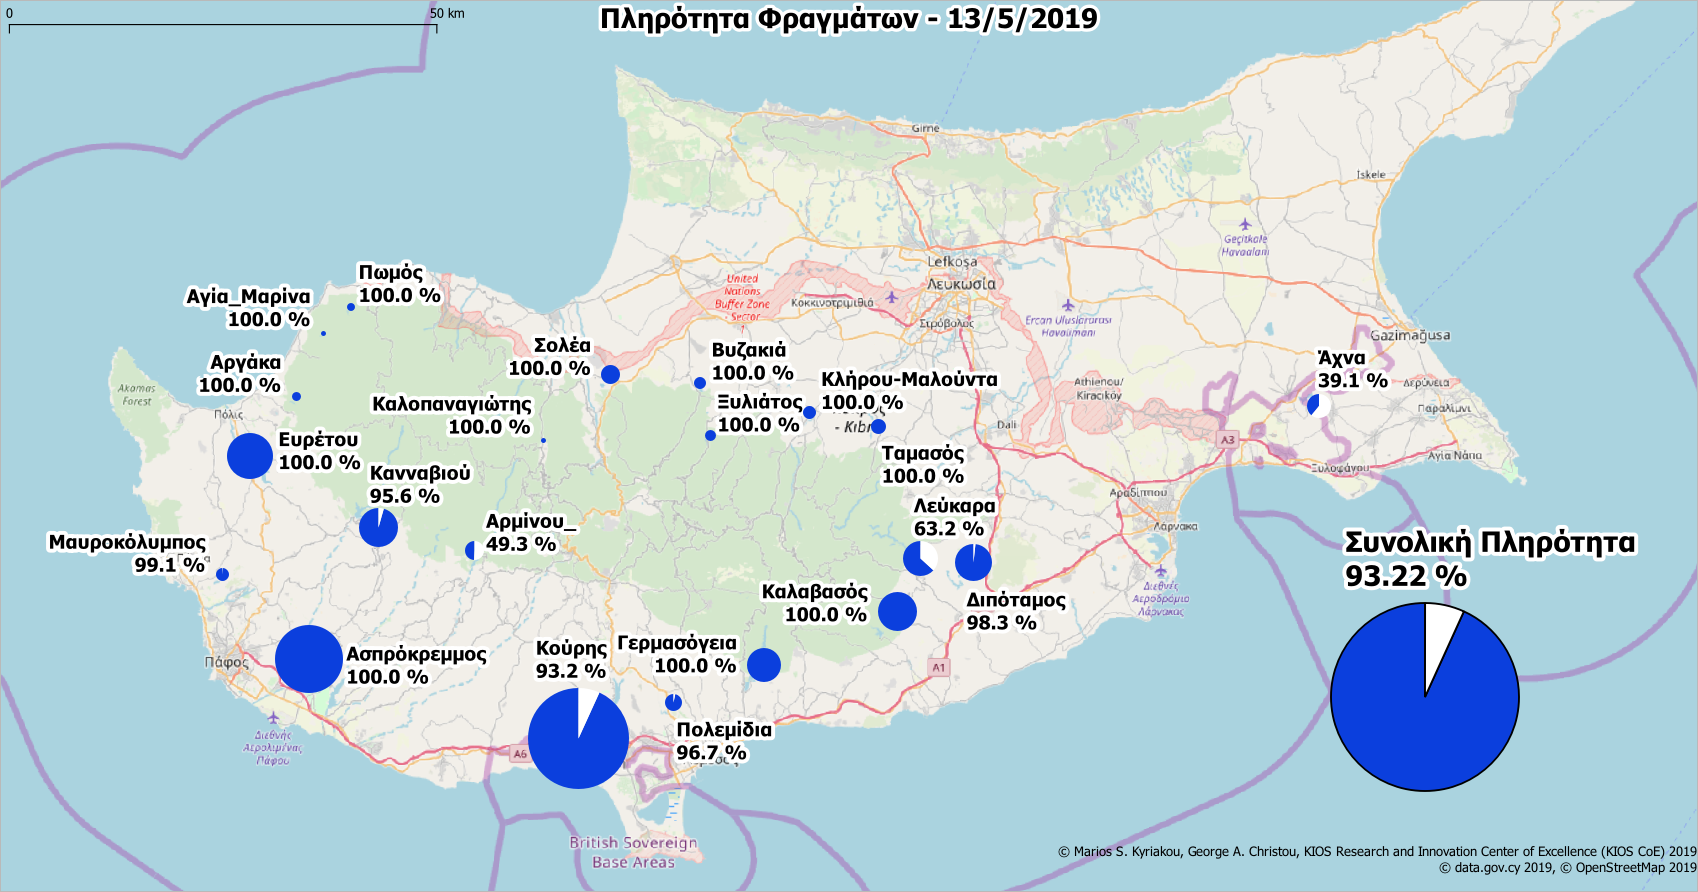
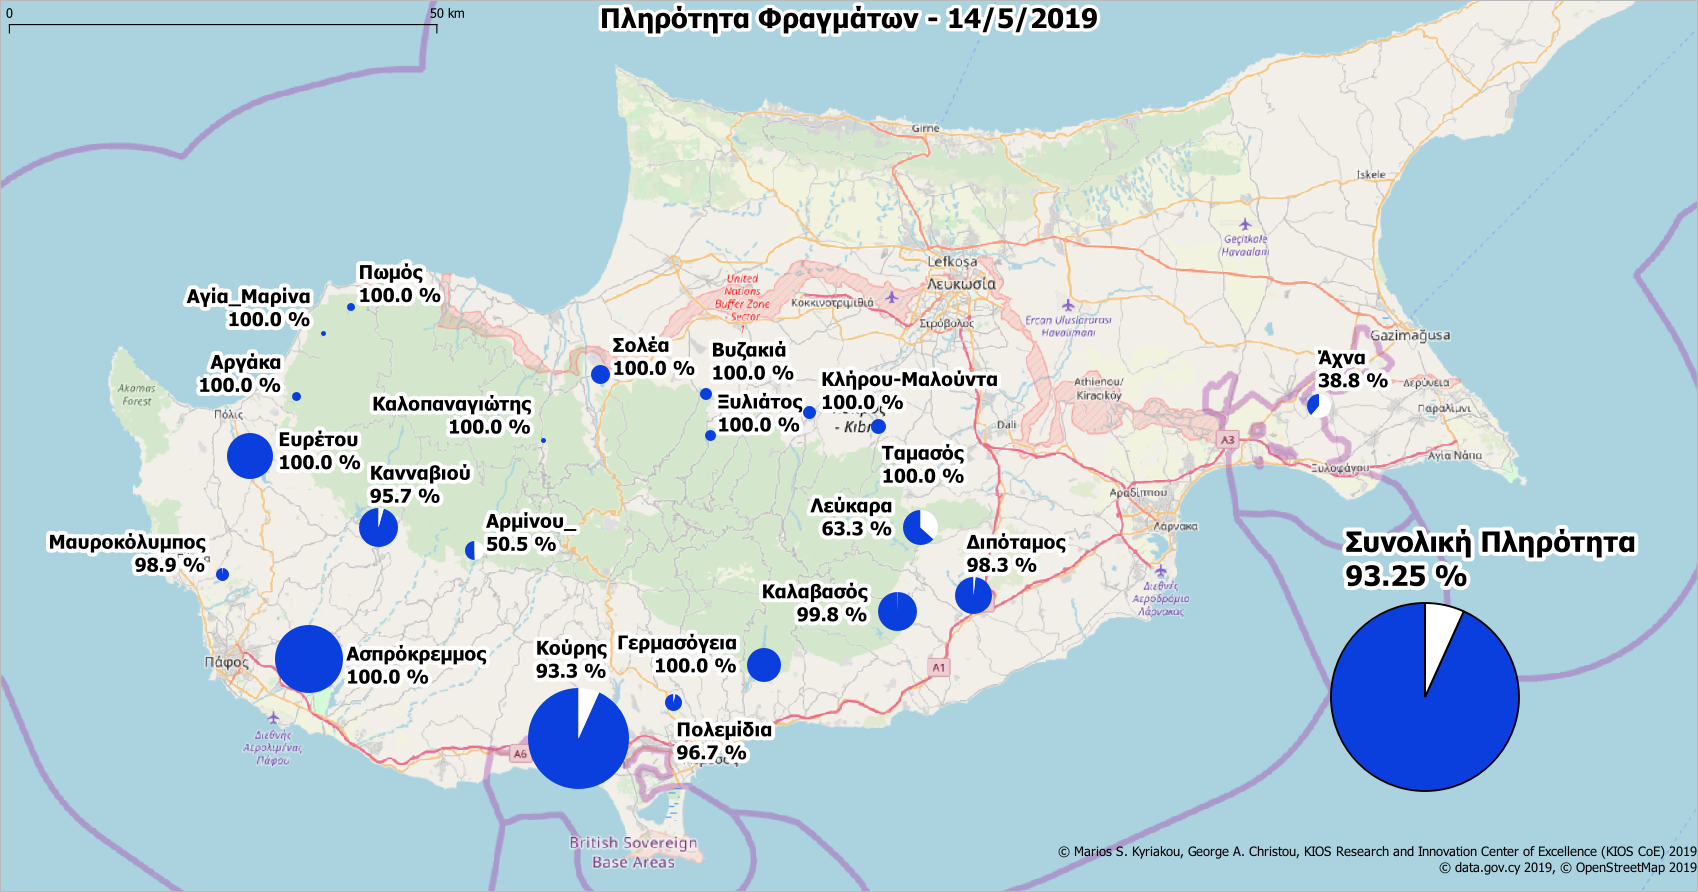
update

diff --git a/dams.html b/dams.html
@@ -11,7 +11,7 @@
          1px  1px 7px WHITE;
     }
     }
-    </style><p><b>Ημερομηνία ανανέωσης δεδομένων: 13/5/2019<p><font color="#0000FF">Η συνολική πληρότητα στα φράγματα είναι 93.22%</font>.<p>Υπάρχουν συνολικά <font color="#0000FF">13</font> φράγματα με πληρότητα <font color="#0000FF">100%</font>.<p>Υπάρχουν <font color="#0000FF">19</font> φράγματα με πληρότητα πάνω από <font color="#0000FF">50%</font>.</b><p><b>Υπάρχουν δεδομένα για 21 φράγματα. Συνολικά υπάρχουν 108 φράγματα. <b><p><p><p>* Ε.Κ.Μ. - Εκατομμύρια Kυβικά  Mέτρα.<table width="444">
+    </style><p><b>Ημερομηνία ανανέωσης δεδομένων: 14/5/2019<p><font color="#0000FF">Η συνολική πληρότητα στα φράγματα είναι 93.25%</font>.<p>Υπάρχουν συνολικά <font color="#0000FF">12</font> φράγματα με πληρότητα <font color="#0000FF">100%</font>.<p>Υπάρχουν <font color="#0000FF">20</font> φράγματα με πληρότητα πάνω από <font color="#0000FF">50%</font>.</b><p><b>Υπάρχουν δεδομένα για 21 φράγματα. Συνολικά υπάρχουν 108 φράγματα. <b><p><p><p>* Ε.Κ.Μ. - Εκατομμύρια Kυβικά  Mέτρα.<table width="444">
     <tbody>
     <tr>
     <th width="2"><b></b></th>
@@ -19,7 +19,7 @@
     <th width="60"><b>Χωρητικότητα (Ε.Κ.Μ.)</b></th>
     <th width="60"><b>Σημερινή (Ε.Κ.Μ.)</b></th>
     <th width="60"><b> Σημερινή Πληρότητα (%)</b></th>
-    </tr><tr><td bgcolor=#1A9641 class=border-white>1</td><td bgcolor=#1A9641 class=border-white>Κούρης</td><td bgcolor=#1A9641 class=border-white>115.0</td><td bgcolor=#1A9641 class=border-white>107.218</td><td bgcolor=#1A9641 class=border-white>93.2</td></tr><tr><tr><td bgcolor=#1A9641 class=border-white>2</td><td bgcolor=#1A9641 class=border-white>Ασπρόκρεμμος</td><td bgcolor=#1A9641 class=border-white>52.375</td><td bgcolor=#1A9641 class=border-white>52.375</td><td bgcolor=#1A9641 class=border-white>100.0</td></tr><tr><tr><td bgcolor=#1A9641 class=border-white>3</td><td bgcolor=#1A9641 class=border-white>Ευρέτου</td><td bgcolor=#1A9641 class=border-white>24.0</td><td bgcolor=#1A9641 class=border-white>23.989</td><td bgcolor=#1A9641 class=border-white>100.0</td></tr><tr><tr><td bgcolor=#1A9641 class=border-white>4</td><td bgcolor=#1A9641 class=border-white>Κανναβιού</td><td bgcolor=#1A9641 class=border-white>17.168</td><td bgcolor=#1A9641 class=border-white>16.416</td><td bgcolor=#1A9641 class=border-white>95.6</td></tr><tr><tr><td bgcolor=#1A9641 class=border-white>5</td><td bgcolor=#1A9641 class=border-white>Καλαβασός</td><td bgcolor=#1A9641 class=border-white>17.1</td><td bgcolor=#1A9641 class=border-white>17.1</td><td bgcolor=#1A9641 class=border-white>100.0</td></tr><tr><tr><td bgcolor=#1A9641 class=border-white>6</td><td bgcolor=#1A9641 class=border-white>Διπόταμος</td><td bgcolor=#1A9641 class=border-white>15.5</td><td bgcolor=#1A9641 class=border-white>15.23</td><td bgcolor=#1A9641 class=border-white>98.3</td></tr><tr><tr><td bgcolor=#A6D96A class=border-white>7</td><td bgcolor=#A6D96A class=border-white>Λεύκαρα</td><td bgcolor=#A6D96A class=border-white>13.85</td><td bgcolor=#A6D96A class=border-white>8.759</td><td bgcolor=#A6D96A class=border-white>63.2</td></tr><tr><tr><td bgcolor=#1A9641 class=border-white>8</td><td bgcolor=#1A9641 class=border-white>Γερμασόγεια</td><td bgcolor=#1A9641 class=border-white>13.5</td><td bgcolor=#1A9641 class=border-white>13.5</td><td bgcolor=#1A9641 class=border-white>100.0</td></tr><tr><tr><td bgcolor=#FED690 class=border-white>9</td><td bgcolor=#FED690 class=border-white>Άχνα</td><td bgcolor=#FED690 class=border-white>6.8</td><td bgcolor=#FED690 class=border-white>2.661</td><td bgcolor=#FED690 class=border-white>39.1</td></tr><tr><tr><td bgcolor=#1A9641 class=border-white>10</td><td bgcolor=#1A9641 class=border-white>Σολέα</td><td bgcolor=#1A9641 class=border-white>4.454</td><td bgcolor=#1A9641 class=border-white>4.454</td><td bgcolor=#1A9641 class=border-white>100.0</td></tr><tr><tr><td bgcolor=#FFFFC0 class=border-white>11</td><td bgcolor=#FFFFC0 class=border-white>Αρμίνου_</td><td bgcolor=#FFFFC0 class=border-white>4.3</td><td bgcolor=#FFFFC0 class=border-white>2.119</td><td bgcolor=#FFFFC0 class=border-white>49.3</td></tr><tr><tr><td bgcolor=#1A9641 class=border-white>12</td><td bgcolor=#1A9641 class=border-white>Πολεμίδια</td><td bgcolor=#1A9641 class=border-white>3.4</td><td bgcolor=#1A9641 class=border-white>3.289</td><td bgcolor=#1A9641 class=border-white>96.7</td></tr><tr><tr><td bgcolor=#1A9641 class=border-white>13</td><td bgcolor=#1A9641 class=border-white>Ταμασός</td><td bgcolor=#1A9641 class=border-white>2.8</td><td bgcolor=#1A9641 class=border-white>2.8</td><td bgcolor=#1A9641 class=border-white>100.0</td></tr><tr><tr><td bgcolor=#1A9641 class=border-white>14</td><td bgcolor=#1A9641 class=border-white>Μαυροκόλυμπος</td><td bgcolor=#1A9641 class=border-white>2.18</td><td bgcolor=#1A9641 class=border-white>2.16</td><td bgcolor=#1A9641 class=border-white>99.1</td></tr><tr><tr><td bgcolor=#1A9641 class=border-white>15</td><td bgcolor=#1A9641 class=border-white>Κλήρου-Μαλούντα</td><td bgcolor=#1A9641 class=border-white>2.0</td><td bgcolor=#1A9641 class=border-white>2.0</td><td bgcolor=#1A9641 class=border-white>100.0</td></tr><tr><tr><td bgcolor=#1A9641 class=border-white>16</td><td bgcolor=#1A9641 class=border-white>Βυζακιά</td><td bgcolor=#1A9641 class=border-white>1.69</td><td bgcolor=#1A9641 class=border-white>1.69</td><td bgcolor=#1A9641 class=border-white>100.0</td></tr><tr><tr><td bgcolor=#1A9641 class=border-white>17</td><td bgcolor=#1A9641 class=border-white>Ξυλιάτος</td><td bgcolor=#1A9641 class=border-white>1.43</td><td bgcolor=#1A9641 class=border-white>1.43</td><td bgcolor=#1A9641 class=border-white>100.0</td></tr><tr><tr><td bgcolor=#1A9641 class=border-white>18</td><td bgcolor=#1A9641 class=border-white>Αργάκα</td><td bgcolor=#1A9641 class=border-white>0.99</td><td bgcolor=#1A9641 class=border-white>0.99</td><td bgcolor=#1A9641 class=border-white>100.0</td></tr><tr><tr><td bgcolor=#1A9641 class=border-white>19</td><td bgcolor=#1A9641 class=border-white>Πωμός</td><td bgcolor=#1A9641 class=border-white>0.86</td><td bgcolor=#1A9641 class=border-white>0.86</td><td bgcolor=#1A9641 class=border-white>100.0</td></tr><tr><tr><td bgcolor=#1A9641 class=border-white>20</td><td bgcolor=#1A9641 class=border-white>Καλοπαναγιώτης</td><td bgcolor=#1A9641 class=border-white>0.363</td><td bgcolor=#1A9641 class=border-white>0.363</td><td bgcolor=#1A9641 class=border-white>100.0</td></tr><tr><tr><td bgcolor=#1A9641 class=border-white>21</td><td bgcolor=#1A9641 class=border-white>Αγία_Μαρίνα</td><td bgcolor=#1A9641 class=border-white>0.298</td><td bgcolor=#1A9641 class=border-white>0.298</td><td bgcolor=#1A9641 class=border-white>100.0</td></tr><tr>
+    </tr><tr><td bgcolor=#1A9641 class=border-white>1</td><td bgcolor=#1A9641 class=border-white>Κούρης</td><td bgcolor=#1A9641 class=border-white>115.0</td><td bgcolor=#1A9641 class=border-white>107.282</td><td bgcolor=#1A9641 class=border-white>93.3</td></tr><tr><tr><td bgcolor=#1A9641 class=border-white>2</td><td bgcolor=#1A9641 class=border-white>Ασπρόκρεμμος</td><td bgcolor=#1A9641 class=border-white>52.375</td><td bgcolor=#1A9641 class=border-white>52.375</td><td bgcolor=#1A9641 class=border-white>100.0</td></tr><tr><tr><td bgcolor=#1A9641 class=border-white>3</td><td bgcolor=#1A9641 class=border-white>Ευρέτου</td><td bgcolor=#1A9641 class=border-white>24.0</td><td bgcolor=#1A9641 class=border-white>23.989</td><td bgcolor=#1A9641 class=border-white>100.0</td></tr><tr><tr><td bgcolor=#1A9641 class=border-white>4</td><td bgcolor=#1A9641 class=border-white>Κανναβιού</td><td bgcolor=#1A9641 class=border-white>17.168</td><td bgcolor=#1A9641 class=border-white>16.425</td><td bgcolor=#1A9641 class=border-white>95.7</td></tr><tr><tr><td bgcolor=#1A9641 class=border-white>5</td><td bgcolor=#1A9641 class=border-white>Καλαβασός</td><td bgcolor=#1A9641 class=border-white>17.1</td><td bgcolor=#1A9641 class=border-white>17.073</td><td bgcolor=#1A9641 class=border-white>99.8</td></tr><tr><tr><td bgcolor=#1A9641 class=border-white>6</td><td bgcolor=#1A9641 class=border-white>Διπόταμος</td><td bgcolor=#1A9641 class=border-white>15.5</td><td bgcolor=#1A9641 class=border-white>15.24</td><td bgcolor=#1A9641 class=border-white>98.3</td></tr><tr><tr><td bgcolor=#A6D96A class=border-white>7</td><td bgcolor=#A6D96A class=border-white>Λεύκαρα</td><td bgcolor=#A6D96A class=border-white>13.85</td><td bgcolor=#A6D96A class=border-white>8.764</td><td bgcolor=#A6D96A class=border-white>63.3</td></tr><tr><tr><td bgcolor=#1A9641 class=border-white>8</td><td bgcolor=#1A9641 class=border-white>Γερμασόγεια</td><td bgcolor=#1A9641 class=border-white>13.5</td><td bgcolor=#1A9641 class=border-white>13.5</td><td bgcolor=#1A9641 class=border-white>100.0</td></tr><tr><tr><td bgcolor=#FED690 class=border-white>9</td><td bgcolor=#FED690 class=border-white>Άχνα</td><td bgcolor=#FED690 class=border-white>6.8</td><td bgcolor=#FED690 class=border-white>2.641</td><td bgcolor=#FED690 class=border-white>38.8</td></tr><tr><tr><td bgcolor=#1A9641 class=border-white>10</td><td bgcolor=#1A9641 class=border-white>Σολέα</td><td bgcolor=#1A9641 class=border-white>4.454</td><td bgcolor=#1A9641 class=border-white>4.454</td><td bgcolor=#1A9641 class=border-white>100.0</td></tr><tr><tr><td bgcolor=#D2EC95 class=border-white>11</td><td bgcolor=#D2EC95 class=border-white>Αρμίνου_</td><td bgcolor=#D2EC95 class=border-white>4.3</td><td bgcolor=#D2EC95 class=border-white>2.172</td><td bgcolor=#D2EC95 class=border-white>50.5</td></tr><tr><tr><td bgcolor=#1A9641 class=border-white>12</td><td bgcolor=#1A9641 class=border-white>Πολεμίδια</td><td bgcolor=#1A9641 class=border-white>3.4</td><td bgcolor=#1A9641 class=border-white>3.289</td><td bgcolor=#1A9641 class=border-white>96.7</td></tr><tr><tr><td bgcolor=#1A9641 class=border-white>13</td><td bgcolor=#1A9641 class=border-white>Ταμασός</td><td bgcolor=#1A9641 class=border-white>2.8</td><td bgcolor=#1A9641 class=border-white>2.8</td><td bgcolor=#1A9641 class=border-white>100.0</td></tr><tr><tr><td bgcolor=#1A9641 class=border-white>14</td><td bgcolor=#1A9641 class=border-white>Μαυροκόλυμπος</td><td bgcolor=#1A9641 class=border-white>2.18</td><td bgcolor=#1A9641 class=border-white>2.155</td><td bgcolor=#1A9641 class=border-white>98.9</td></tr><tr><tr><td bgcolor=#1A9641 class=border-white>15</td><td bgcolor=#1A9641 class=border-white>Κλήρου-Μαλούντα</td><td bgcolor=#1A9641 class=border-white>2.0</td><td bgcolor=#1A9641 class=border-white>2.0</td><td bgcolor=#1A9641 class=border-white>100.0</td></tr><tr><tr><td bgcolor=#1A9641 class=border-white>16</td><td bgcolor=#1A9641 class=border-white>Βυζακιά</td><td bgcolor=#1A9641 class=border-white>1.69</td><td bgcolor=#1A9641 class=border-white>1.69</td><td bgcolor=#1A9641 class=border-white>100.0</td></tr><tr><tr><td bgcolor=#1A9641 class=border-white>17</td><td bgcolor=#1A9641 class=border-white>Ξυλιάτος</td><td bgcolor=#1A9641 class=border-white>1.43</td><td bgcolor=#1A9641 class=border-white>1.43</td><td bgcolor=#1A9641 class=border-white>100.0</td></tr><tr><tr><td bgcolor=#1A9641 class=border-white>18</td><td bgcolor=#1A9641 class=border-white>Αργάκα</td><td bgcolor=#1A9641 class=border-white>0.99</td><td bgcolor=#1A9641 class=border-white>0.99</td><td bgcolor=#1A9641 class=border-white>100.0</td></tr><tr><tr><td bgcolor=#1A9641 class=border-white>19</td><td bgcolor=#1A9641 class=border-white>Πωμός</td><td bgcolor=#1A9641 class=border-white>0.86</td><td bgcolor=#1A9641 class=border-white>0.86</td><td bgcolor=#1A9641 class=border-white>100.0</td></tr><tr><tr><td bgcolor=#1A9641 class=border-white>20</td><td bgcolor=#1A9641 class=border-white>Καλοπαναγιώτης</td><td bgcolor=#1A9641 class=border-white>0.363</td><td bgcolor=#1A9641 class=border-white>0.363</td><td bgcolor=#1A9641 class=border-white>100.0</td></tr><tr><tr><td bgcolor=#1A9641 class=border-white>21</td><td bgcolor=#1A9641 class=border-white>Αγία_Μαρίνα</td><td bgcolor=#1A9641 class=border-white>0.298</td><td bgcolor=#1A9641 class=border-white>0.298</td><td bgcolor=#1A9641 class=border-white>100.0</td></tr><tr>
     </tr>
     <tr>
     <td></td>
